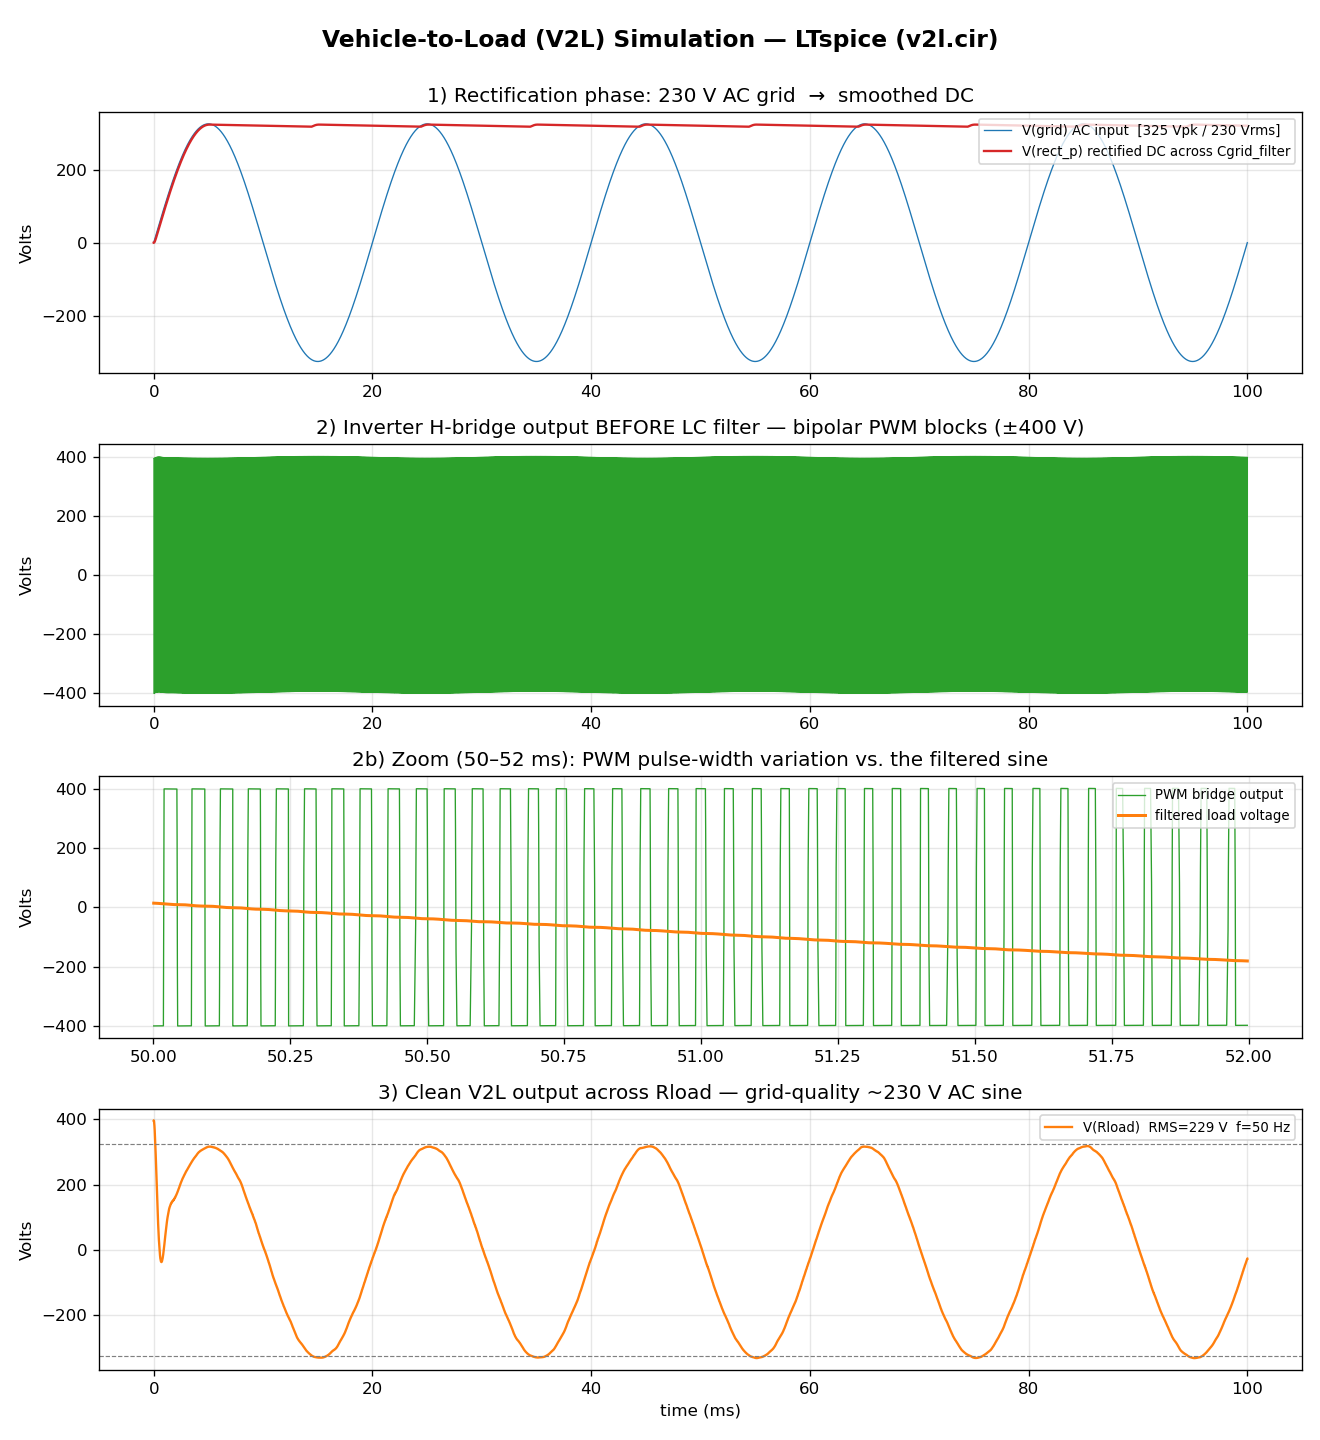
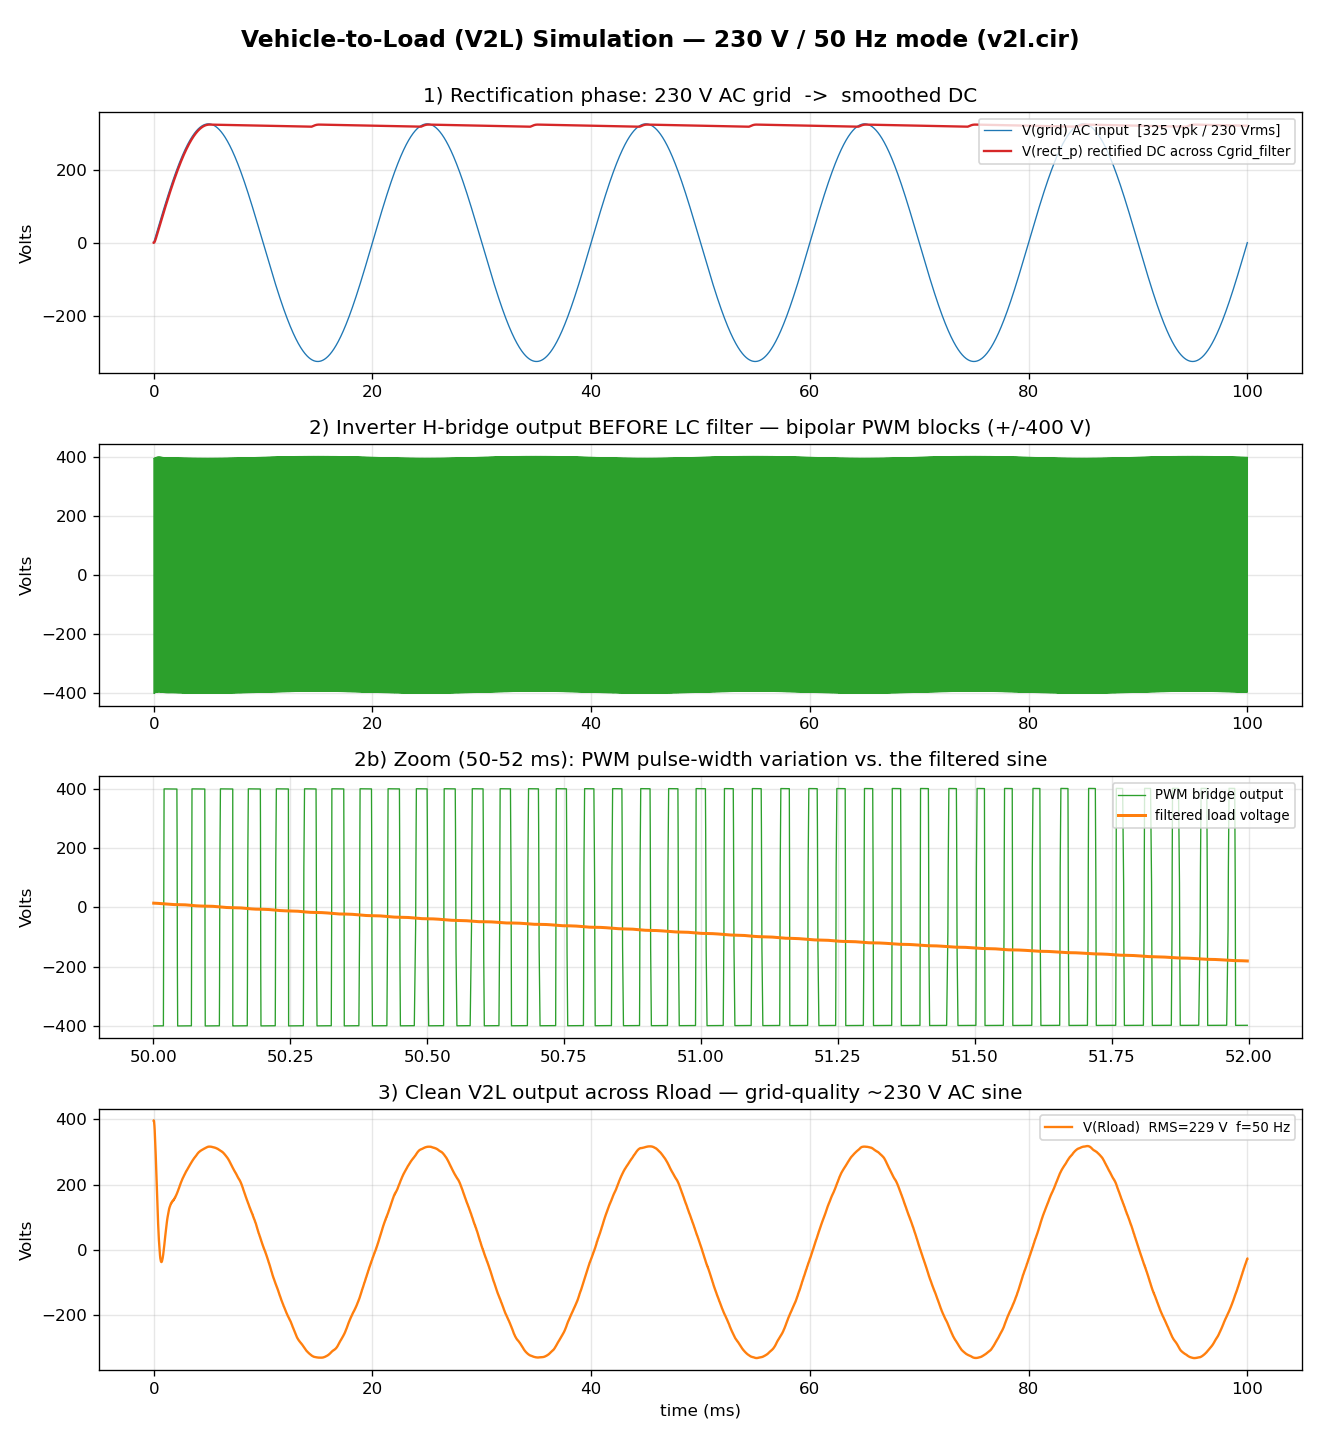
new features: enable dual voltage

diff --git a/plot_v2l.py b/plot_v2l.py
@@ -1,13 +1,15 @@
 #!/usr/bin/env python3
 """
-Post-process the V2L LTspice run (v2l.raw) and produce the three
-visualizations called out in Section 4 of CLAUDE.md:
+Post-process the V2L LTspice run (v2l.raw).
 
-  1. Rectification phase : grid AC sine  ->  flat DC across Cgrid_filter
-  2. PWM inverter phase   : H-bridge output (PWM blocks) before the LC filter
-  3. Clean V2L output     : smooth ~230 V AC sine across Rload
+The netlist is stepped over MODE:
+    MODE 1 -> 230 V / 50 Hz  (Europe / IEC)
+    MODE 2 -> 120 V / 60 Hz  (North America)
 
-Also prints quantitative checks (DC bus level, output RMS, frequency).
+Outputs:
+  * console : a quantitative verification table for every output mode
+  * v2l_results.png       : full 4-panel demonstration (Section-4 phases, MODE 1)
+  * v2l_dual_voltage.png  : side-by-side comparison of the two output standards
 """
 import numpy as np
 import matplotlib
@@ -16,87 +18,105 @@ import matplotlib.pyplot as plt
 from PyLTSpice import RawRead
 
 raw = RawRead("v2l.raw")
-t = raw.get_trace("time").get_wave()
-t = np.abs(t)  # LTspice can store time with a sign quirk
 
-def v(name):
-    return np.real(raw.get_trace(name).get_wave())
+# ---- enumerate the .step points -------------------------------------------
+try:
+    steps = list(raw.get_steps())
+except Exception:
+    steps = [0]
+if not steps:
+    steps = [0]
 
-gridA   = v("V(grida)")
-gridB   = v("V(gridb)")
-rect_p  = v("V(rect_p)")
-dcbus   = v("V(dcbus)")
-outa    = v("V(outa)")
-outb    = v("V(outb)")
-nfilt   = v("V(nfilt)")
+MODE_INFO = {0: ("230 V / 50 Hz  (Europe)",   230.0, 50.0, "#ff7f0e"),
+             1: ("120 V / 60 Hz  (N. America)", 120.0, 60.0, "#9467bd")}
 
-grid_ac   = gridA - gridB          # AC across the bridge input
-bridge_out = outa - outb           # raw PWM (before LC filter)
-load_v    = nfilt - outb           # across Rload (the clean V2L output)
+def wave(name, step):
+    return np.real(raw.get_trace(name).get_wave(step))
 
-# ---- quantitative checks --------------------------------------------------
-def rms(x, tt, t0):
-    m = tt >= t0
-    return np.sqrt(np.trapz(x[m]**2, tt[m]) / (tt[m][-1] - tt[m][0]))
+def axis(step):
+    return np.abs(raw.get_trace("time").get_wave(step))
 
-# settle: ignore first 20 ms transient, measure on 20..100 ms
-t0 = 20e-3
-mask = t >= t0
-dc_level   = np.mean(rect_p[mask])
-bus_level  = np.mean(dcbus[mask])
-out_rms    = rms(load_v, t, t0)
-out_pk     = np.max(np.abs(load_v[mask]))
+def rms(x, t, t0):
+    m = t >= t0
+    return np.sqrt(np.trapz(x[m] ** 2, t[m]) / (t[m][-1] - t[m][0]))
 
-# estimate output frequency via zero crossings of the load voltage
-lv = load_v[mask]; tt = t[mask]
-zc = np.where((lv[:-1] < 0) & (lv[1:] >= 0))[0]
-if len(zc) > 1:
-    periods = np.diff(tt[zc])
-    freq = 1.0 / np.mean(periods)
-else:
-    freq = float("nan")
+def output_freq(lv, t, t0):
+    """Fundamental frequency via FFT on a uniformly resampled window.
+    LTspice uses adaptive time steps, so resample before transforming, and
+    FFT (not zero-crossings) so switching ripple doesn't inflate the count."""
+    m = t >= t0
+    tm, lvm = t[m], lv[m]
+    n = 200000
+    tu = np.linspace(tm[0], tm[-1], n)
+    lu = np.interp(tu, tm, lvm)
+    lu = lu - lu.mean()
+    dt = tu[1] - tu[0]
+    spec = np.abs(np.fft.rfft(lu * np.hanning(n)))
+    freqs = np.fft.rfftfreq(n, dt)
+    df = freqs[1] - freqs[0]
+    band = (freqs >= 30) & (freqs <= 100)   # mains fundamental window
+    k = np.flatnonzero(band)[np.argmax(spec[band])]
+    # parabolic interpolation to refine the peak below FFT bin resolution
+    if 0 < k < len(spec) - 1:
+        y0, y1, y2 = spec[k - 1], spec[k], spec[k + 1]
+        denom = (y0 - 2 * y1 + y2)
+        delta = 0.5 * (y0 - y2) / denom if denom != 0 else 0.0
+    else:
+        delta = 0.0
+    return freqs[k] + delta * df
 
-print("================ V2L quantitative checks ================")
-print(f"Grid AC peak           : {np.max(np.abs(grid_ac[mask])):7.1f} V  (expect ~325 V)")
-print(f"Rectified DC (Cfilter) : {dc_level:7.1f} V  mean")
-print(f"EV DC bus (dcbus)      : {bus_level:7.1f} V  (expect ~400 V)")
-print(f"V2L output RMS         : {out_rms:7.1f} V  (target ~230 V AC)")
-print(f"V2L output peak        : {out_pk:7.1f} V")
-print(f"V2L output frequency   : {freq:7.1f} Hz  (expect 50 Hz)")
-print(f"Load power (Vrms^2/R)  : {out_rms**2/50:7.0f} W  into 50 ohm")
-print("=========================================================")
+# ---- per-mode quantitative checks -----------------------------------------
+results = {}
+t0 = 20e-3   # ignore startup transient
+print("==================== V2L dual-voltage output checks ====================")
+print(f"{'Mode':<26}{'RMS (V)':>9}{'Freq (Hz)':>11}{'Peak (V)':>10}{'Power (W)':>11}")
+for s in steps:
+    t = axis(s)
+    load_v = wave("V(nfilt)", s) - wave("V(outb)", s)
+    r = rms(load_v, t, t0)
+    f = output_freq(load_v, t, t0)
+    pk = np.max(np.abs(load_v[t >= t0]))
+    p = r ** 2 / 50.0
+    label = MODE_INFO.get(s, (f"step {s}", 0, 0, "#333"))[0]
+    results[s] = dict(t=t, load_v=load_v, rms=r, freq=f, peak=pk, power=p, label=label)
+    print(f"{label:<26}{r:>9.1f}{f:>11.1f}{pk:>10.1f}{p:>11.0f}")
+print("========================================================================")
 
-# ---- figure ---------------------------------------------------------------
-ms = t * 1e3  # time in ms for plotting
-fig, ax = plt.subplots(4, 1, figsize=(11, 12), sharex=False)
-fig.suptitle("Vehicle-to-Load (V2L) Simulation — LTspice (v2l.cir)", fontsize=14, weight="bold")
+# ===========================================================================
+# FIGURE 1 : full demonstration for MODE 1 (230 V / 50 Hz)
+# ===========================================================================
+s0 = steps[0]
+t = axis(s0)
+gridA = wave("V(grida)", s0); gridB = wave("V(gridb)", s0)
+rect_p = wave("V(rect_p)", s0)
+outa = wave("V(outa)", s0); outb = wave("V(outb)", s0)
+grid_ac = gridA - gridB
+bridge_out = outa - outb
+load_v = results[s0]["load_v"]
+ms = t * 1e3
 
-# 1a. Grid AC + rectified DC (Rectification phase)
+fig, ax = plt.subplots(4, 1, figsize=(11, 12))
+fig.suptitle("Vehicle-to-Load (V2L) Simulation — 230 V / 50 Hz mode (v2l.cir)",
+             fontsize=14, weight="bold")
+
 ax[0].plot(ms, grid_ac, color="#1f77b4", lw=0.8, label="V(grid) AC input  [325 Vpk / 230 Vrms]")
 ax[0].plot(ms, rect_p, color="#d62728", lw=1.4, label="V(rect_p) rectified DC across Cgrid_filter")
-ax[0].set_title("1) Rectification phase: 230 V AC grid  →  smoothed DC")
-ax[0].set_ylabel("Volts")
-ax[0].legend(loc="upper right", fontsize=8); ax[0].grid(alpha=0.3)
+ax[0].set_title("1) Rectification phase: 230 V AC grid  ->  smoothed DC")
+ax[0].set_ylabel("Volts"); ax[0].legend(loc="upper right", fontsize=8); ax[0].grid(alpha=0.3)
 
-# 2. PWM bridge output before the LC filter (full span)
 ax[1].plot(ms, bridge_out, color="#2ca02c", lw=0.4)
-ax[1].set_title("2) Inverter H-bridge output BEFORE LC filter — bipolar PWM blocks (±400 V)")
+ax[1].set_title("2) Inverter H-bridge output BEFORE LC filter — bipolar PWM blocks (+/-400 V)")
 ax[1].set_ylabel("Volts"); ax[1].grid(alpha=0.3)
 
-# 2b. Zoom on the PWM so the pulse-width variation is visible
 zlo, zhi = 50e-3, 52e-3
 zm = (t >= zlo) & (t <= zhi)
-ax[2].plot(t[zm]*1e3, bridge_out[zm], color="#2ca02c", lw=0.8, label="PWM bridge output")
-ax[2].plot(t[zm]*1e3, load_v[zm], color="#ff7f0e", lw=1.8, label="filtered load voltage")
-ax[2].set_title("2b) Zoom (50–52 ms): PWM pulse-width variation vs. the filtered sine")
-ax[2].set_ylabel("Volts")
-ax[2].legend(loc="upper right", fontsize=8); ax[2].grid(alpha=0.3)
+ax[2].plot(t[zm] * 1e3, bridge_out[zm], color="#2ca02c", lw=0.8, label="PWM bridge output")
+ax[2].plot(t[zm] * 1e3, load_v[zm], color="#ff7f0e", lw=1.8, label="filtered load voltage")
+ax[2].set_title("2b) Zoom (50-52 ms): PWM pulse-width variation vs. the filtered sine")
+ax[2].set_ylabel("Volts"); ax[2].legend(loc="upper right", fontsize=8); ax[2].grid(alpha=0.3)
 
-# 3. Clean V2L output across Rload
 ax[3].plot(ms, load_v, color="#ff7f0e", lw=1.4,
-           label=f"V(Rload)  RMS={out_rms:.0f} V  f={freq:.0f} Hz")
-ax[3].axhline( out_rms*np.sqrt(2),  color="grey", ls="--", lw=0.7)
-ax[3].axhline(-out_rms*np.sqrt(2),  color="grey", ls="--", lw=0.7)
+           label=f"V(Rload)  RMS={results[s0]['rms']:.0f} V  f={results[s0]['freq']:.0f} Hz")
 ax[3].set_title("3) Clean V2L output across Rload — grid-quality ~230 V AC sine")
 ax[3].set_xlabel("time (ms)"); ax[3].set_ylabel("Volts")
 ax[3].legend(loc="upper right", fontsize=8); ax[3].grid(alpha=0.3)
@@ -104,3 +124,35 @@ ax[3].legend(loc="upper right", fontsize=8); ax[3].grid(alpha=0.3)
 plt.tight_layout(rect=[0, 0, 1, 0.98])
 plt.savefig("v2l_results.png", dpi=120)
 print("Saved figure -> v2l_results.png")
+
+# ===========================================================================
+# FIGURE 2 : dual-voltage output comparison
+# ===========================================================================
+if len(steps) >= 2:
+    fig2, bx = plt.subplots(3, 1, figsize=(11, 9))
+    fig2.suptitle("V2L Dual-Voltage Output — selectable mains standard",
+                  fontsize=14, weight="bold")
+
+    for i, s in enumerate(steps[:2]):
+        r = results[s]
+        col = MODE_INFO.get(s, ("", 0, 0, "#333"))[3]
+        bx[i].plot(r["t"] * 1e3, r["load_v"], color=col, lw=1.4,
+                   label=f"{r['label']}   RMS={r['rms']:.0f} V   f={r['freq']:.0f} Hz   P={r['power']:.0f} W")
+        bx[i].axhline(r["rms"] * np.sqrt(2), color="grey", ls="--", lw=0.7)
+        bx[i].axhline(-r["rms"] * np.sqrt(2), color="grey", ls="--", lw=0.7)
+        bx[i].set_title(f"Output across Rload — {r['label']}")
+        bx[i].set_ylabel("Volts"); bx[i].set_ylim(-360, 360)
+        bx[i].legend(loc="upper right", fontsize=8); bx[i].grid(alpha=0.3)
+
+    # overlay
+    for s in steps[:2]:
+        r = results[s]
+        col = MODE_INFO.get(s, ("", 0, 0, "#333"))[3]
+        bx[2].plot(r["t"] * 1e3, r["load_v"], color=col, lw=1.2, label=r["label"])
+    bx[2].set_title("Overlay — same inverter, modulation index sets the voltage/frequency")
+    bx[2].set_xlabel("time (ms)"); bx[2].set_ylabel("Volts")
+    bx[2].set_xlim(0, 100); bx[2].legend(loc="upper right", fontsize=8); bx[2].grid(alpha=0.3)
+
+    plt.tight_layout(rect=[0, 0, 1, 0.97])
+    plt.savefig("v2l_dual_voltage.png", dpi=120)
+    print("Saved figure -> v2l_dual_voltage.png")

diff --git a/README.md b/README.md
@@ -19,8 +19,9 @@ project models the two operating phases end-to-end:
 1. **Grid charging (AC → DC).** A 230 V<sub>RMS</sub> / 50 Hz grid feeds a full-wave diode
    bridge and smoothing capacitor, conditioning AC into a stable DC rail.
 2. **V2L discharge (DC → AC).** A 400 V battery drives an H-bridge inverter switched by
-   20 kHz sinusoidal PWM; an LC low-pass filter reconstructs a clean 230 V AC sine across the
-   load.
+   20 kHz sinusoidal PWM; an LC low-pass filter reconstructs a clean AC sine across the load.
+   The output is **dual-voltage selectable** — **230 V / 50 Hz** (Europe) or
+   **120 V / 60 Hz** (North America) — chosen by a single mode parameter.
 
 ---
 
@@ -63,7 +64,8 @@ output is for demonstrating AC→DC conditioning, while the ideal 400 V pack fee
 | --- | --- |
 | [`v2l.cir`](v2l.cir) | The complete, runnable SPICE netlist (all four modules + analysis directives). |
 | [`plot_v2l.py`](plot_v2l.py) | Post-processor: parses the LTspice `.raw`, runs quantitative checks, renders the results figure. |
-| [`v2l_results.png`](v2l_results.png) | Rendered waveforms for the three demonstration phases. |
+| [`v2l_results.png`](v2l_results.png) | Rendered waveforms for the three demonstration phases (230 V mode). |
+| [`v2l_dual_voltage.png`](v2l_dual_voltage.png) | Comparison of the two selectable output standards (230 V/50 Hz vs 120 V/60 Hz). |
 | [`CLAUDE.md`](CLAUDE.md) | Original step-by-step design specification (LTspice build guide). |
 | `.gitignore` | Excludes regenerable simulation artifacts (`*.raw`, `*.log`, `*.net`). |
 
@@ -96,7 +98,8 @@ pip install numpy matplotlib PyLTSpice
 ```
 
 This produces `v2l.raw`, containing all node voltages and branch currents for the 100 ms
-transient (5 cycles of 50 Hz).
+transient. The netlist is **stepped over both output modes** (`MODE = 1` and `MODE = 2`), so a
+single run captures the 230 V / 50 Hz *and* 120 V / 60 Hz cases.
 
 **2. Analyze and plot the results:**
 
@@ -136,6 +139,26 @@ The figure shows the three demonstration phases:
 
 ---
 
+## Dual-Voltage Output
+
+Because the AC output is synthesized by the inverter (independent of the grid that charged the
+battery), the output standard is set entirely by the **PWM modulation index** and **reference
+frequency** — not by any hardware change. The output amplitude is linear in the modulation
+index `M = V_ref / V_carrier`, so a single mode parameter selects the mains standard. The
+netlist `.step`s over both in one simulation:
+
+| Mode | Region | `MODE` | Measured RMS | Frequency | Load power (50 Ω) |
+| :---: | --- | :---: | :---: | :---: | :---: |
+| 1 | Europe / IEC | `1` | 229.1 V | 50.0 Hz | ~1.05 kW |
+| 2 | North America | `2` | 121.7 V | 60.0 Hz | ~0.30 kW |
+
+![Dual-voltage output comparison](v2l_dual_voltage.png)
+
+To pin the model to a single standard instead of sweeping both, delete the `.step` line in
+[`v2l.cir`](v2l.cir) and set `.param MODE = 1` (or `2`) directly.
+
+---
+
 ## Circuit Design Notes
 
 **LC filter cutoff.** With `L = 10 mH` and `C = 4.7 µF`, the corner frequency is
@@ -147,7 +170,9 @@ filter passes the sine while rejecting the carrier.
 
 **Modulation index.** The reference amplitude (1.0) over the carrier amplitude (1.2) gives
 `M ≈ 0.83`, so the fundamental output is `M × 400 V ≈ 333 V` peak ≈ **235 V<sub>RMS</sub>** —
-by design, close to nominal mains.
+by design, close to nominal mains. Halving the modulation index (`M ≈ 0.43`, reference
+amplitude 0.524) scales the output to **120 V<sub>RMS</sub>** for the North-America mode — see
+[Dual-Voltage Output](#dual-voltage-output).
 
 **Switch model.** The H-bridge uses ideal voltage-controlled switches
 (`Ron = 0.01 Ω`, `Roff = 1 MΩ`, `Vt = 0.5`) for robust convergence, as recommended in the